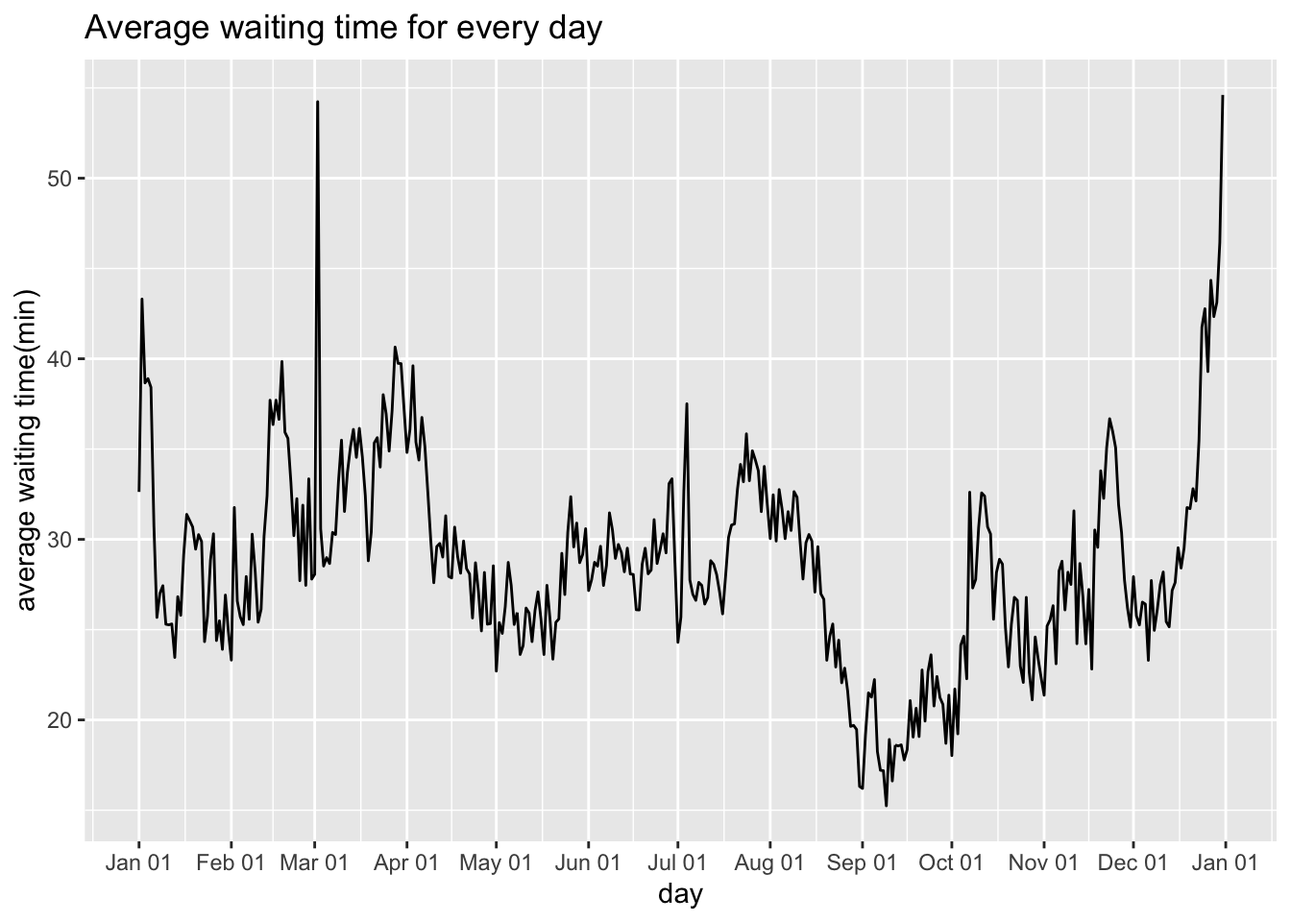
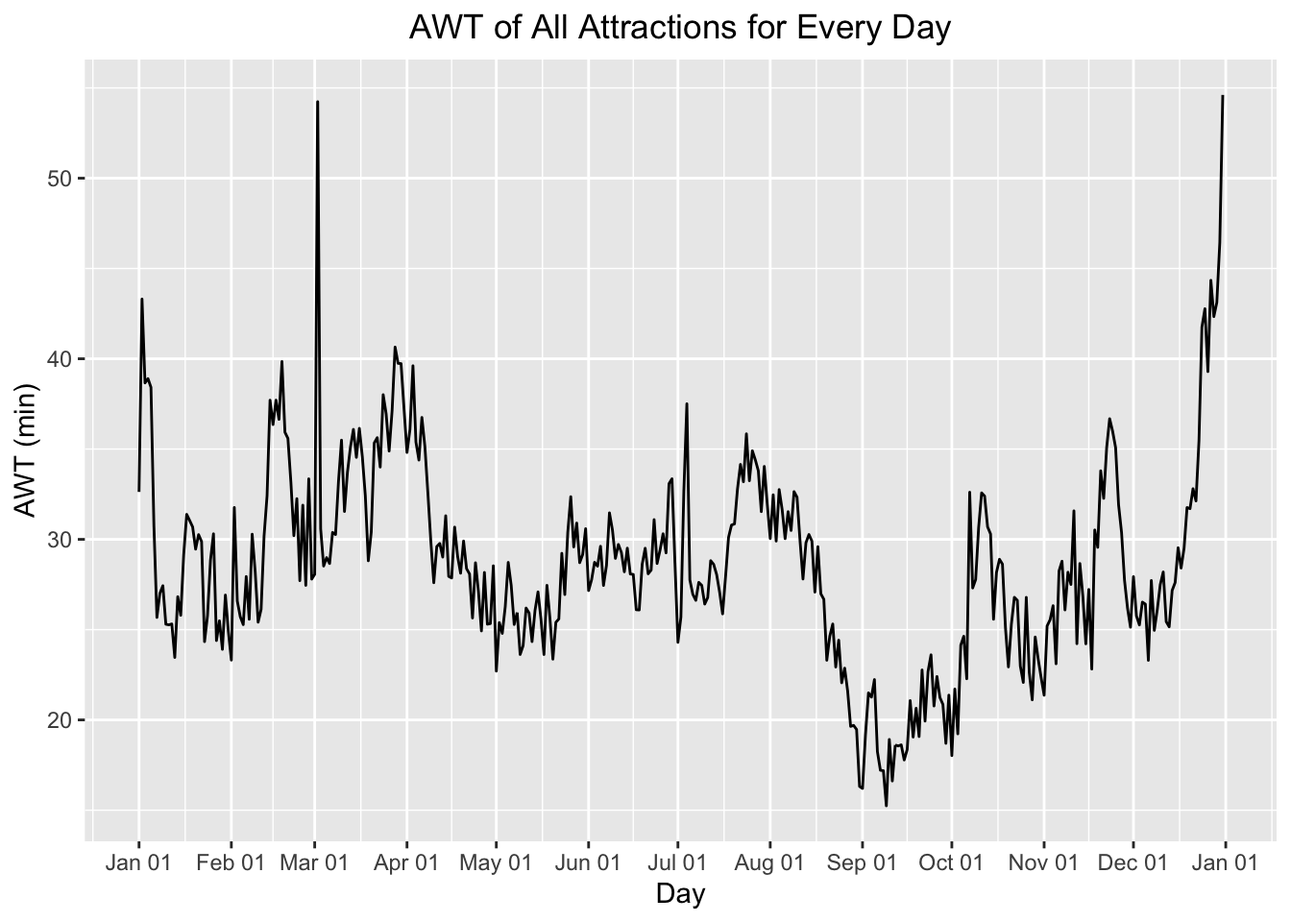
latest bookdown sync

Changed region(s): [[0.0625, 0.0, 0.75, 0.0625], [0.0, 0.3125, 0.0312, 0.6562], [0.5, 0.9375, 0.5625, 1.0]]

diff --git a/docs/results.html b/docs/results.html
@@ -103,7 +103,7 @@
 </ul></li>
 <li class="chapter" data-level="4.3" data-path="results.html"><a href="results.html#general-pattern-analysis---micro-level"><i class="fa fa-check"></i><b>4.3</b> General Pattern Analysis - Micro-Level</a>
 <ul>
-<li class="chapter" data-level="4.3.1" data-path="results.html"><a href="results.html#average-waiting-time-per-facility-per-day"><i class="fa fa-check"></i><b>4.3.1</b> Average Waiting Time per Facility per day</a></li>
+<li class="chapter" data-level="4.3.1" data-path="results.html"><a href="results.html#awt-vs.-days"><i class="fa fa-check"></i><b>4.3.1</b> AWT vs. Days</a></li>
 <li class="chapter" data-level="4.3.2" data-path="results.html"><a href="results.html#average-waiting-time-per-facility-per-weekday"><i class="fa fa-check"></i><b>4.3.2</b> Average Waiting Time per Facility per weekday</a></li>
 </ul></li>
 </ul></li>
@@ -112,7 +112,11 @@
 <li class="chapter" data-level="5.1" data-path="interactive-component.html"><a href="interactive-component.html#awt-vs.-duration"><i class="fa fa-check"></i><b>5.1</b> <em>AWT</em> vs. Duration</a></li>
 <li class="chapter" data-level="5.2" data-path="interactive-component.html"><a href="interactive-component.html#awt_100-vs.-duration"><i class="fa fa-check"></i><b>5.2</b> <em>AWT_100</em> vs. Duration</a></li>
 </ul></li>
-<li class="chapter" data-level="6" data-path="conclusion.html"><a href="conclusion.html"><i class="fa fa-check"></i><b>6</b> Conclusion</a></li>
+<li class="chapter" data-level="6" data-path="conclusion.html"><a href="conclusion.html"><i class="fa fa-check"></i><b>6</b> Conclusion</a>
+<ul>
+<li class="chapter" data-level="6.1" data-path="conclusion.html"><a href="conclusion.html#recommendation"><i class="fa fa-check"></i><b>6.1</b> Recommendation</a></li>
+<li class="chapter" data-level="6.2" data-path="conclusion.html"><a href="conclusion.html#future-directions"><i class="fa fa-check"></i><b>6.2</b> Future Directions</a></li>
+</ul></li>
 <li class="divider"></li>
 <li><a href="https://github.com/rstudio/bookdown" target="blank">Published with bookdown</a></li>
 </ul>
@@ -189,80 +193,6 @@ we identified that <em>average waiting time</em> itself is not a good indicator 
 popularity of the attraction. Note that we observe that the <em>average waiting time</em> is not always higher for
 popular attractions identified in previous section. Thus, we should not solely leverage on that when analyzing the popularity of attractions. However,
 with the power of time series data, it is powerful when analyzing trend and designing visiting plans.</p>
-<pre><code>## [[1]]
-## [1] &quot;7 dwarfs train&quot;
-## 
-## [[2]]
-## [1] &quot;astro orbiter&quot;
-## 
-## [[3]]
-## [1] &quot;barnstormer&quot;
-## 
-## [[4]]
-## [1] &quot;big thunder mtn&quot;
-## 
-## [[5]]
-## [1] &quot;buzz lightyear&quot;
-## 
-## [[6]]
-## [1] &quot;carousel of progress&quot;
-## 
-## [[7]]
-## [1] &quot;country bears&quot;
-## 
-## [[8]]
-## [1] &quot;dumbo&quot;
-## 
-## [[9]]
-## [1] &quot;enchanted tiki rm&quot;
-## 
-## [[10]]
-## [1] &quot;hall of presidents&quot;
-## 
-## [[11]]
-## [1] &quot;haunted mansion&quot;
-## 
-## [[12]]
-## [1] &quot;it s a small world&quot;
-## 
-## [[13]]
-## [1] &quot;jungle cruise&quot;
-## 
-## [[14]]
-## [1] &quot;liberty sq riverboat&quot;
-## 
-## [[15]]
-## [1] &quot;mad tea party&quot;
-## 
-## [[16]]
-## [1] &quot;magic carpets&quot;
-## 
-## [[17]]
-## [1] &quot;peoplemover&quot;
-## 
-## [[18]]
-## [1] &quot;peter pan s flight&quot;
-## 
-## [[19]]
-## [1] &quot;pirates of caribbean&quot;
-## 
-## [[20]]
-## [1] &quot;regal carrousel&quot;
-## 
-## [[21]]
-## [1] &quot;space mountain&quot;
-## 
-## [[22]]
-## [1] &quot;splash mountain&quot;
-## 
-## [[23]]
-## [1] &quot;tom land speedway&quot;
-## 
-## [[24]]
-## [1] &quot;under the sea&quot;
-## 
-## [[25]]
-## [1] &quot;winnie the pooh&quot;</code></pre>
 <p><img src="finalproj_files/figure-html/unnamed-chunk-14-1.png" width="672" /></p>
 </div>
 </div>
@@ -301,7 +231,7 @@ isolate average waiting time for each year and identify the following trends and
 news, activities, and reports published by Disneyland Officials)</p>
 <ul>
 <li><strong><em>Obs #1:</em></strong> We managed to identify cyclical patterns by isolating <em>AWT</em> for each year.</li>
-<li><strong><em>Obs #2:</em></strong> In general, there are two peaks of <em>AWT</em> for attractions in Disneyland: <em>April - July</em> (spring peak) and <em>December - January</em> (winter peak).<br />
+<li><strong><em>Obs #2:</em></strong> In general, there are two peaks of <em>AWT</em> for attractions in Disneyland: <em>April - Late May</em> (spring peak) and <em>December - January</em> (winter peak).<br />
 <strong><em>Exp:</em></strong> Spring <em>AWT</em> peak corresponds to the fact that there are tons of activities held in that period, whereas winter peak is the direct result
 of Christmas Holiday (Note that Florida is a good place to stay for many people during winter).</li>
 <li><strong><em>Obs #3:</em></strong> In <em>2020</em>, we observed a completely different trend due to the temporary closure of the park.</li>
@@ -352,17 +282,44 @@ suggestion is to visit the park in summer or fall.</p>
 </div>
 <div id="general-pattern-analysis---micro-level" class="section level2 hasAnchor" number="4.3">
 <h2><span class="header-section-number">4.3</span> General Pattern Analysis - Micro-Level<a href="results.html#general-pattern-analysis---micro-level" class="anchor-section" aria-label="Anchor link to header"></a></h2>
-<div id="average-waiting-time-per-facility-per-day" class="section level3 hasAnchor" number="4.3.1">
-<h3><span class="header-section-number">4.3.1</span> Average Waiting Time per Facility per day<a href="results.html#average-waiting-time-per-facility-per-day" class="anchor-section" aria-label="Anchor link to header"></a></h3>
+<p>Based on our exploratory analysis in the previous section, <em>AWT</em> of all attractions is a good representation of <em>AWT</em> of
+each attraction. This crucial observation allowed us to conduct micro-level analysis on the cyclical
+pattern that we identified earlier.</p>
+<div id="awt-vs.-days" class="section level3 hasAnchor" number="4.3.1">
+<h3><span class="header-section-number">4.3.1</span> AWT vs. Days<a href="results.html#awt-vs.-days" class="anchor-section" aria-label="Anchor link to header"></a></h3>
+<p>Specifically, we focused on the <em>AWT</em> of all attractions for each day in a year. Although we have already identified that there
+are two peaks (spring and winter) of <em>AWT</em>, we hope that this micro-level analysis can bring more intuitions about the underlying reasons.</p>
 <p><img src="finalproj_files/figure-html/unnamed-chunk-24-1.png" width="672" /></p>
-<p>From the graph above, we can see that the waiting time drops by almost 20 minutes at the beginning of January, which can be explained by the start of the Spring semester. Since students occupy a large proportion of visitors, as they are going back to school, there are fewer visitors to Disneyland, thus requiring tourists to wait much less time.</p>
-<p>The waiting time then steadily increases until April 1, when it decreases by almost 25%. This is probably becauase the Disneyland was closed on April, 2022. The number stays at the same level for about four months before dropping dramatically in August, which can be explained by the start of the Fall semester. From September to January, the waiting time generally increases, except for the first half of October and the second half of November, when it suddenly increases and then goes back to the original level. These two peaks correspond to the Fall break and Thanksgiving break, when many students are freed from school and visit the Magic Kingdom.</p>
-<p>We believe that the waiting time is related to students’ schedules. When students need to go back to school, the waiting time is short. When they have breaks, the waiting time is longer. The sudden drops in January and August are two significant pieces of evidence that support our argument.</p>
-<div id="average-waiting-time-per-facility-per-day-before-and-after-covid-19" class="section level4 hasAnchor" number="4.3.1.1">
-<h4><span class="header-section-number">4.3.1.1</span> Average Waiting Time per Facility per day before and after Covid-19<a href="results.html#average-waiting-time-per-facility-per-day-before-and-after-covid-19" class="anchor-section" aria-label="Anchor link to header"></a></h4>
+<p>From the graph above, we have the following observations:</p>
+<ul>
+<li><strong><em>Obs #1:</em></strong> We clearly identified that there are two periods where the <em>AWT</em> decrease significantly:
+<em>Late August to Early September</em> and <em>Beginning of January</em><br />
+<strong><em>Exp:</em></strong> One possible explanation is that by the start of the Winter semester,
+students, who occupy a large proportion of visitors, are going back to school,
+resulting in fewer visitors to Disneyland.</li>
+<li><strong><em>Obs #2:</em></strong> In this micro-level analysis, we manage to identify <strong>the thrid</strong> peak, which is around <em>Late June to Early August</em>.<br />
+<strong><em>Exp:</em></strong> This corresponds to the fact that most schools (ranging from Universities to Kindergarten) are in vacations.</li>
+<li><strong><em>Obs #3:</em></strong> <strong><em>Obs #2</em></strong> confirmed the effectiveness and necessity of this micro-level analysis.</li>
+</ul>
+<!-- exhibits an increasing pattern until _April_, when it decreases by almost 25%. This is probably becauase the Disneyland was closed on April, 2022. The number stays at the same level for about four months before dropping dramatically in August, which can be explained by the start of the Fall semester. From September to January, the waiting time generally increases, except for the first half of October and the second half of November, when it suddenly increases and then goes back to the original level. These two peaks correspond to the Fall break and Thanksgiving break, when many students are freed from school and visit the Magic Kingdom. -->
+<!-- We believe that the waiting time is related to students' schedules. When students need to go back to school, the waiting time is short. When they have breaks, the waiting time is longer. The sudden drops in January and August are two significant pieces of evidence that support our argument. -->
+<p>Recall in previous section, we discovered that there is an abnormal pattern in <em>2020</em> due to COVID disruption. Therefore, a plot like above may not be
+sufficient to capture this variation. Therefore, we manually filtered the data and compare the patterns of <em>AWT</em> before and after COVID outbreak.</p>
 <p><img src="finalproj_files/figure-html/unnamed-chunk-26-1.png" width="672" /></p>
-<p>We set January 1, 2020 as the threshold which separates the time before and after Covid-19 affected the world. The blue line represents the average waiting time before Covid, and the red line is for the period after Covid. Generally, the waiting time is shorter after Covid, especially during June and July.</p>
-</div>
+<p>Specifically, we manually classify the periods before <em>2020-01-01</em> as <em>Before COVID</em> period and time after <em>2021-01-01</em> as
+the <em>After COVID</em> periods. The reasoning behind this is that the COVID outbreaks occurred at the beginning of <em>2020</em> and it is under control at the end of <em>2020</em> according to the report from <a href="https://www.cdc.gov/">CDC</a>.
+The second reason is inherited from the internal nature of our dataset, where we have tons of missing data between
+<em>2020-04-01</em> and <em>2020-10-01</em> due to Disneyland’s closure; thus, it is reasonable to remove the data from whole year and use this year as a threshold.
+Based on our plots, here are the main observations:</p>
+<ul>
+<li><strong><em>Obs #1:</em></strong> There is a general trend of decreasing <em>AWT</em> for nearly all time periods in a year after COVID outbreak.<br />
+<strong><em>Exp:</em></strong> the concerns of public safety prevented many people from going out and travelling.</li>
+<li><strong><em>Obs #2:</em></strong> There exists outlier of the trend in <strong><em>Obs #1</em></strong>: in Christmas, the <em>AWT</em> is higher than before.<br />
+<strong><em>Exp:</em></strong> Recall our threshold for <em>After COVID</em> period is <em>2021-01-01</em> to <em>2022-01-01</em>, so in December 2022, there is already 1.5 years since
+COVID’s outbreak so people’s life is getting back to normal.</li>
+<li><strong><em>Obs #3:</em></strong> After COVID-19 shutdown, in <em>January</em>, there is a significant drop in <em>AWT</em> compared to patterns before COVID-19.<br />
+<strong><em>Exp:</em></strong> Again, public safety concerns and schools reopening led to less tourists.</li>
+</ul>
 </div>
 <div id="average-waiting-time-per-facility-per-weekday" class="section level3 hasAnchor" number="4.3.2">
 <h3><span class="header-section-number">4.3.2</span> Average Waiting Time per Facility per weekday<a href="results.html#average-waiting-time-per-facility-per-weekday" class="anchor-section" aria-label="Anchor link to header"></a></h3>

diff --git a/docs/data.html b/docs/data.html
@@ -103,7 +103,7 @@
 </ul></li>
 <li class="chapter" data-level="4.3" data-path="results.html"><a href="results.html#general-pattern-analysis---micro-level"><i class="fa fa-check"></i><b>4.3</b> General Pattern Analysis - Micro-Level</a>
 <ul>
-<li class="chapter" data-level="4.3.1" data-path="results.html"><a href="results.html#average-waiting-time-per-facility-per-day"><i class="fa fa-check"></i><b>4.3.1</b> Average Waiting Time per Facility per day</a></li>
+<li class="chapter" data-level="4.3.1" data-path="results.html"><a href="results.html#awt-vs.-days"><i class="fa fa-check"></i><b>4.3.1</b> AWT vs. Days</a></li>
 <li class="chapter" data-level="4.3.2" data-path="results.html"><a href="results.html#average-waiting-time-per-facility-per-weekday"><i class="fa fa-check"></i><b>4.3.2</b> Average Waiting Time per Facility per weekday</a></li>
 </ul></li>
 </ul></li>
@@ -112,7 +112,11 @@
 <li class="chapter" data-level="5.1" data-path="interactive-component.html"><a href="interactive-component.html#awt-vs.-duration"><i class="fa fa-check"></i><b>5.1</b> <em>AWT</em> vs. Duration</a></li>
 <li class="chapter" data-level="5.2" data-path="interactive-component.html"><a href="interactive-component.html#awt_100-vs.-duration"><i class="fa fa-check"></i><b>5.2</b> <em>AWT_100</em> vs. Duration</a></li>
 </ul></li>
-<li class="chapter" data-level="6" data-path="conclusion.html"><a href="conclusion.html"><i class="fa fa-check"></i><b>6</b> Conclusion</a></li>
+<li class="chapter" data-level="6" data-path="conclusion.html"><a href="conclusion.html"><i class="fa fa-check"></i><b>6</b> Conclusion</a>
+<ul>
+<li class="chapter" data-level="6.1" data-path="conclusion.html"><a href="conclusion.html#recommendation"><i class="fa fa-check"></i><b>6.1</b> Recommendation</a></li>
+<li class="chapter" data-level="6.2" data-path="conclusion.html"><a href="conclusion.html#future-directions"><i class="fa fa-check"></i><b>6.2</b> Future Directions</a></li>
+</ul></li>
 <li class="divider"></li>
 <li><a href="https://github.com/rstudio/bookdown" target="blank">Published with bookdown</a></li>
 </ul>
@@ -136,9 +140,27 @@
 <h1><span class="header-section-number">Chapter 3</span> Data<a href="data.html#data" class="anchor-section" aria-label="Anchor link to header"></a></h1>
 <div id="sources" class="section level2 hasAnchor" number="3.1">
 <h2><span class="header-section-number">3.1</span> Sources<a href="data.html#sources" class="anchor-section" aria-label="Anchor link to header"></a></h2>
+<p>As described in the website, the data is collected directly from 3 sources:</p>
+<ol style="list-style-type: decimal">
+<li><p>from app users of <a href="%5Bhttps://touringplans.com/walt-disney-world/crowd-calendar#DataSets%5D">Touringplans.com</a><br />
+The app records the time its users enter waiting lines and enjoy the facility. The difference between these two times is the actual waiting time.</p></li>
+<li><p><a href="https://disneyworld.disney.go.com/plan/my-disney-experience/?ef_id=CjwKCAjw5P2aBhAlEiwAAdY7dIkqzaELf-qklZ0q5Yby8vqX2Yxy38GD99jYgCp2JARCUI_u3nHwWxoCGRMQAvD_BwE:G:s&amp;s_kwcid=AL!5060!3!601187705510!p!!g!!disney%20experience&amp;CMP=KNC-FY23_WDW_TRA_DXF_W365_SCP_MYDX_MDX_Exact%7CG%7C5231013.RR.AM.01.01%7CMWNOQXO%7CBR%7C601187705510&amp;keyword_id=aud-300113739056:kwd-2901498835%7Cdc%7Cdisney%20experience%7C601187705510%7Cp%7C5060:3%7C&amp;gclid=CjwKCAjw5P2aBhAlEiwAAdY7dIkqzaELf-qklZ0q5Yby8vqX2Yxy38GD99jYgCp2JARCUI_u3nHwWxoCGRMQAvD_BwE">Disney’s My Disney Experience app</a><br />
+Disneyland estimates the waiting time based on the length of waiting lines. The estimated waiting time is posted on a sign at the entrance to attractions and shown on Disney’s app.</p></li>
+<li><p>observation from the staffs of <a href="%5Bhttps://touringplans.com/walt-disney-world/crowd-calendar#DataSets%5D">Touringplans.com</a> on sights.<br />
+The staffs visit Disneyland and record their actual waiting time for each attraction.</p></li>
+</ol>
+<p>Issues / problems with the data:<br />
+After plotting the raw data (Section 3.3.2), we discovered that there are no data from April 2020 to October 2020, except August 2020. This is due to the COVID-19 outbreak and the Magic Kingdom Park was closed. However, there is data for August, so we deemed that these data are recorded due to some errors, and we dropped these data from our analysis.<br />
+ <br />
+Other than the above data error, we also discovered that the “entities” data table assigned some attractions with the wrong themed land. To correctly group each attraction to the right land, we went to Disney’s official website to find a map and other related information.</p>
 </div>
 <div id="cleaning-transformation" class="section level2 hasAnchor" number="3.2">
 <h2><span class="header-section-number">3.2</span> Cleaning / transformation<a href="data.html#cleaning-transformation" class="anchor-section" aria-label="Anchor link to header"></a></h2>
+<p>There are 41 attractions’ CSV files available to download, but not all these files contain data. There are only 25 files that contain valid wait time data to explore. These CSV files all contain four columns, which are “date”, “datetime”, “SACTMIN”, and “SPOSTMIN”.<br />
+ <br />
+The “date” column is redundant because its values are all contained in the “datetime” column too, so we dropped this column. “SACTMIN” has a lot of missing values, and we observed that when “SPOSTMIN” has missing data, its corresponding “SACTMIN” has a value and vice versa. Hence, we replaced all the missing values in “SPOSTMIN” with the values from “SACTMIN”. If both the “SACTMIN” and “SPOSTMIN” columns do not have value, then it means that the row does not have valid wait time data for our analysis, so we drop the row. After combining the “SACTMIN” and “SPOSTMIN” columns, we renamed the new column as “Waiting.Time” and dropped the “SACTMIN” column. In addition, we also add column “X” as an ID column.<br />
+ <br />
+Moreover, in our analysis of wait time based on the time of the day, we also converted the “datetime” column from character type to datetime using as.POSIXlt(). This will allow us to compare time easily. We assigned time before 12 PM to be the morning category, time between 12 PM and before 6 PM to be the afternoon category, and time after 6 PM to be the evening category.</p>
 </div>
 <div id="missing-value-analysis" class="section level2 hasAnchor" number="3.3">
 <h2><span class="header-section-number">3.3</span> Missing value analysis<a href="data.html#missing-value-analysis" class="anchor-section" aria-label="Anchor link to header"></a></h2>
@@ -149,6 +171,7 @@
 <div id="missing-time-series-data" class="section level3 hasAnchor" number="3.3.2">
 <h3><span class="header-section-number">3.3.2</span> Missing Time Series Data<a href="data.html#missing-time-series-data" class="anchor-section" aria-label="Anchor link to header"></a></h3>
 <p><img src="finalproj_files/figure-html/unnamed-chunk-9-1.png" width="672" /></p>
+<p>From the above chart, we can see that there are missing data values for all the three variables. These three variables are some general information about each ride, and we observe that if one variable has missing data, then the other two variables tend to be missing too, only one exception for attraction “enchanted tiki rm”. We dropped the missing data for our analysis. Since they do not have a strong relationship with analyzing the wait time trend.</p>
 
 </div>
 </div>

diff --git a/docs/proposal.html b/docs/proposal.html
@@ -103,7 +103,7 @@
 </ul></li>
 <li class="chapter" data-level="4.3" data-path="results.html"><a href="results.html#general-pattern-analysis---micro-level"><i class="fa fa-check"></i><b>4.3</b> General Pattern Analysis - Micro-Level</a>
 <ul>
-<li class="chapter" data-level="4.3.1" data-path="results.html"><a href="results.html#average-waiting-time-per-facility-per-day"><i class="fa fa-check"></i><b>4.3.1</b> Average Waiting Time per Facility per day</a></li>
+<li class="chapter" data-level="4.3.1" data-path="results.html"><a href="results.html#awt-vs.-days"><i class="fa fa-check"></i><b>4.3.1</b> AWT vs. Days</a></li>
 <li class="chapter" data-level="4.3.2" data-path="results.html"><a href="results.html#average-waiting-time-per-facility-per-weekday"><i class="fa fa-check"></i><b>4.3.2</b> Average Waiting Time per Facility per weekday</a></li>
 </ul></li>
 </ul></li>
@@ -112,7 +112,11 @@
 <li class="chapter" data-level="5.1" data-path="interactive-component.html"><a href="interactive-component.html#awt-vs.-duration"><i class="fa fa-check"></i><b>5.1</b> <em>AWT</em> vs. Duration</a></li>
 <li class="chapter" data-level="5.2" data-path="interactive-component.html"><a href="interactive-component.html#awt_100-vs.-duration"><i class="fa fa-check"></i><b>5.2</b> <em>AWT_100</em> vs. Duration</a></li>
 </ul></li>
-<li class="chapter" data-level="6" data-path="conclusion.html"><a href="conclusion.html"><i class="fa fa-check"></i><b>6</b> Conclusion</a></li>
+<li class="chapter" data-level="6" data-path="conclusion.html"><a href="conclusion.html"><i class="fa fa-check"></i><b>6</b> Conclusion</a>
+<ul>
+<li class="chapter" data-level="6.1" data-path="conclusion.html"><a href="conclusion.html#recommendation"><i class="fa fa-check"></i><b>6.1</b> Recommendation</a></li>
+<li class="chapter" data-level="6.2" data-path="conclusion.html"><a href="conclusion.html#future-directions"><i class="fa fa-check"></i><b>6.2</b> Future Directions</a></li>
+</ul></li>
 <li class="divider"></li>
 <li><a href="https://github.com/rstudio/bookdown" target="blank">Published with bookdown</a></li>
 </ul>
@@ -142,13 +146,7 @@
 <div id="data-availability" class="section level2 hasAnchor" number="2.2">
 <h2><span class="header-section-number">2.2</span> Data availability<a href="proposal.html#data-availability" class="anchor-section" aria-label="Anchor link to header"></a></h2>
 <p>The data comes from <a href="%5Bhttps://touringplans.com/walt-disney-world/crowd-calendar#DataSets%5D">Touringplans.com</a>. The data includes the most recent daily or hourly average waiting time for some selected attractions in the Magic Kingdom of Disney and the metadata that are useful for conducting analysis.</p>
-<p>As described in the website, the data is collected directly from 3 sources:</p>
-<ol style="list-style-type: decimal">
-<li>from app users of <a href="%5Bhttps://touringplans.com/walt-disney-world/crowd-calendar#DataSets%5D">Touringplans.com</a></li>
-<li><a href="https://disneyworld.disney.go.com/plan/my-disney-experience/?ef_id=CjwKCAjw5P2aBhAlEiwAAdY7dIkqzaELf-qklZ0q5Yby8vqX2Yxy38GD99jYgCp2JARCUI_u3nHwWxoCGRMQAvD_BwE:G:s&amp;s_kwcid=AL!5060!3!601187705510!p!!g!!disney%20experience&amp;CMP=KNC-FY23_WDW_TRA_DXF_W365_SCP_MYDX_MDX_Exact%7CG%7C5231013.RR.AM.01.01%7CMWNOQXO%7CBR%7C601187705510&amp;keyword_id=aud-300113739056:kwd-2901498835%7Cdc%7Cdisney%20experience%7C601187705510%7Cp%7C5060:3%7C&amp;gclid=CjwKCAjw5P2aBhAlEiwAAdY7dIkqzaELf-qklZ0q5Yby8vqX2Yxy38GD99jYgCp2JARCUI_u3nHwWxoCGRMQAvD_BwE">Disney’s My Disney Experience app</a></li>
-<li>observation from the staffs of <a href="%5Bhttps://touringplans.com/walt-disney-world/crowd-calendar#DataSets%5D">Touringplans.com</a> on sights.</li>
-</ol>
-<p>As for its availability, the data can be downloaded directly from the website for free in CSV format. A CSV document downloaded contains all wait time data for a specific attraction. The wait time is recorded at different time intervals (every 1 ~ 10 minutes) for each day. For example, the raw data for attraction <a href="https://disneyworld.disney.go.com/attractions/magic-kingdom/dumbo-the-flying-elephant/">Dumbo</a> and <a href="https://disneyworld.disney.go.com/attractions/magic-kingdom/monsters-inc-laugh-floor/">Laugh Floor</a> are displayed below.</p>
+<p>The data can be downloaded directly from the website for free in CSV format. A CSV document downloaded contains all wait time data for a specific attraction. The wait time is recorded at different time intervals (every 1 ~ 10 minutes) for each day. For example, the raw data for attraction <a href="https://disneyworld.disney.go.com/attractions/magic-kingdom/dumbo-the-flying-elephant/">Dumbo</a> and <a href="https://disneyworld.disney.go.com/attractions/magic-kingdom/monsters-inc-laugh-floor/">Laugh Floor</a> are displayed below.</p>
 <!-- <center> -->
 <!-- <img src="Imgs/dumbo_eg.png" alt="Example Wait Time Data", width = "50%" -->
 <!-- ![Dumbo](Imgs/dumbo_eg.jpeg){width=40%} ![Laugh Floor](Imgs/lf_eg.jpeg){width=40%} -->
@@ -161,7 +159,7 @@
 <img style="height: auto; width: 45%;" src="Imgs/lf_eg.jpeg" alt="lf"/>
 <figcaption style="text-align: center;">Fig. 1: Example Data for Dumbo (left) and Laugh Floor (right)</figcaption></div>
 <!-- </div> -->
-<p>By our investigation, the data is available for each park opening day from 01/01/2015 to 12/28/2021, and the website provides data for 41 attractions in the Magic Kingdom. Furthermore, we also identified that there are many useful metadata from <a href="%5Bhttps://touringplans.com/walt-disney-world/crowd-calendar#DataSets%5D">Touringplans.com</a>. For instance, we have the access to the metadata for each attraction of the Magic Kingdom, which records useful information including its unique code, duration, and where it locates. Note that information like durations are extremely helpful when analyzing the waiting time of attractions. The example dataset is displayed below.</p>
+<p>By our investigation, the data is available for each park opening day from 01/01/2015 to 12/28/2021. Yet, from 04/01/2020 to 10/01/2020, Disneyland was closed, so we don’t have any data during this period. The website provides data for 41 attractions in the Magic Kingdom. Furthermore, we also identified that there are many useful metadata from <a href="%5Bhttps://touringplans.com/walt-disney-world/crowd-calendar#DataSets%5D">Touringplans.com</a>. For instance, we have the access to the metadata for each attraction of the Magic Kingdom, which records useful information including its unique code, duration, and where it locates. Note that information like durations are extremely helpful when analyzing the waiting time of attractions. The example dataset is displayed below.</p>
 <div class='container', style="text-align: center;">
 <img style="height: auto; width: 80%;" src="Imgs/metadata.jpeg" alt="metadata"/>
 <figcaption style="text-align: center;">Fig. 2: Example Metadata</figcaption>

diff --git a/docs/conclusion.html b/docs/conclusion.html
@@ -103,7 +103,7 @@
 </ul></li>
 <li class="chapter" data-level="4.3" data-path="results.html"><a href="results.html#general-pattern-analysis---micro-level"><i class="fa fa-check"></i><b>4.3</b> General Pattern Analysis - Micro-Level</a>
 <ul>
-<li class="chapter" data-level="4.3.1" data-path="results.html"><a href="results.html#average-waiting-time-per-facility-per-day"><i class="fa fa-check"></i><b>4.3.1</b> Average Waiting Time per Facility per day</a></li>
+<li class="chapter" data-level="4.3.1" data-path="results.html"><a href="results.html#awt-vs.-days"><i class="fa fa-check"></i><b>4.3.1</b> AWT vs. Days</a></li>
 <li class="chapter" data-level="4.3.2" data-path="results.html"><a href="results.html#average-waiting-time-per-facility-per-weekday"><i class="fa fa-check"></i><b>4.3.2</b> Average Waiting Time per Facility per weekday</a></li>
 </ul></li>
 </ul></li>
@@ -112,7 +112,11 @@
 <li class="chapter" data-level="5.1" data-path="interactive-component.html"><a href="interactive-component.html#awt-vs.-duration"><i class="fa fa-check"></i><b>5.1</b> <em>AWT</em> vs. Duration</a></li>
 <li class="chapter" data-level="5.2" data-path="interactive-component.html"><a href="interactive-component.html#awt_100-vs.-duration"><i class="fa fa-check"></i><b>5.2</b> <em>AWT_100</em> vs. Duration</a></li>
 </ul></li>
-<li class="chapter" data-level="6" data-path="conclusion.html"><a href="conclusion.html"><i class="fa fa-check"></i><b>6</b> Conclusion</a></li>
+<li class="chapter" data-level="6" data-path="conclusion.html"><a href="conclusion.html"><i class="fa fa-check"></i><b>6</b> Conclusion</a>
+<ul>
+<li class="chapter" data-level="6.1" data-path="conclusion.html"><a href="conclusion.html#recommendation"><i class="fa fa-check"></i><b>6.1</b> Recommendation</a></li>
+<li class="chapter" data-level="6.2" data-path="conclusion.html"><a href="conclusion.html#future-directions"><i class="fa fa-check"></i><b>6.2</b> Future Directions</a></li>
+</ul></li>
 <li class="divider"></li>
 <li><a href="https://github.com/rstudio/bookdown" target="blank">Published with bookdown</a></li>
 </ul>
@@ -134,10 +138,22 @@
             <section class="normal" id="section-">
 <div id="conclusion" class="section level1 hasAnchor" number="6">
 <h1><span class="header-section-number">Chapter 6</span> Conclusion<a href="conclusion.html#conclusion" class="anchor-section" aria-label="Anchor link to header"></a></h1>
-<p>The waiting time in Disneyland has seasonal pattern. Tourists need to wait longer time during Spring and Winter than Summer and Fall. We believe it is related to students’ schedule. The average waiting time (AWT) significantly drops after the spring semester and the fall semester begin. There are also two small sudden peak around the Fall break and the Thanksgiving break. Besides the seasonal patter, we also notice that people need to wait more on Saturday and Monday. While Sunday and Thursday cost less time on waiting. What’s more, due to Covid-19, the AWT in recent two years is less than before 2020.
-## Recommendation
-We recommend tourists visit Disneyland on a Sunday during Fall.The weather is comfortable and they don’t have to wait for a long time.</p>
+<p>The waiting time in Disneyland has seasonal pattern. Tourists need to wait longer time during Spring and Winter than Summer and Fall. We believe it is related to students’ schedule. The average waiting time (AWT) significantly drops after the spring semester and the fall semester begin. There are also two small sudden peak around the Fall break and the Thanksgiving break. Besides the seasonal patter, we also notice that people need to wait more on Saturday and Monday. While Sunday and Thursday cost less time on waiting. What’s more, due to Covid-19, the AWT in recent two years is less than before 2020.  </p>
+<div id="recommendation" class="section level2 hasAnchor" number="6.1">
+<h2><span class="header-section-number">6.1</span> Recommendation<a href="conclusion.html#recommendation" class="anchor-section" aria-label="Anchor link to header"></a></h2>
+<p>We recommend tourists visit Disneyland on a Sunday during Fall.The weather is comfortable and they don’t have to wait for a long time. 
+ 
+Based on the average wait time analysis, we can conclude that if a visitor wants to take the most popular attraction, the Seven Dwarf Mine Train, then the best time to visit is after 6 PM because the average wait time is the shortest in the evening. For the second most popular attraction, the Buzz Lightyear, the best time to visit is again in the evening. The best time to visit the third most popular attraction, the Astro Orbiter, is in the morning before 12 PM. 
+ 
+Other than the popular attractions, if a visitor wants to visit the Space Mountain, then the best time to go is in the morning. The best time to visit Peter Pan’s flight and the Jungle Cruise is in the evening. Splash Mountain and the Big Thunder Mountain have shorter average wait time in both the morning and evening.  </p>
+</div>
+<div id="future-directions" class="section level2 hasAnchor" number="6.2">
+<h2><span class="header-section-number">6.2</span> Future Directions<a href="conclusion.html#future-directions" class="anchor-section" aria-label="Anchor link to header"></a></h2>
+<p>From our exploratory analysis, we observed that there are some common trends and cyclical patterns in the historical wait time. Our project serves as a solid and directed base for possible supervised machine learning studies. Models can be designed to predict the wait time at Magic Kingdom.  
+ 
+Other than only using the wait time data, other categories of data can also be incorporated to discover more patterns. For example, weather data, flight ticket price data, and hotel price data can be used to find correlations with wait time.</p>
 
+</div>
 </div>
             </section>
 

diff --git a/docs/index.html b/docs/index.html
@@ -103,7 +103,7 @@
 </ul></li>
 <li class="chapter" data-level="4.3" data-path="results.html"><a href="results.html#general-pattern-analysis---micro-level"><i class="fa fa-check"></i><b>4.3</b> General Pattern Analysis - Micro-Level</a>
 <ul>
-<li class="chapter" data-level="4.3.1" data-path="results.html"><a href="results.html#average-waiting-time-per-facility-per-day"><i class="fa fa-check"></i><b>4.3.1</b> Average Waiting Time per Facility per day</a></li>
+<li class="chapter" data-level="4.3.1" data-path="results.html"><a href="results.html#awt-vs.-days"><i class="fa fa-check"></i><b>4.3.1</b> AWT vs. Days</a></li>
 <li class="chapter" data-level="4.3.2" data-path="results.html"><a href="results.html#average-waiting-time-per-facility-per-weekday"><i class="fa fa-check"></i><b>4.3.2</b> Average Waiting Time per Facility per weekday</a></li>
 </ul></li>
 </ul></li>
@@ -112,7 +112,11 @@
 <li class="chapter" data-level="5.1" data-path="interactive-component.html"><a href="interactive-component.html#awt-vs.-duration"><i class="fa fa-check"></i><b>5.1</b> <em>AWT</em> vs. Duration</a></li>
 <li class="chapter" data-level="5.2" data-path="interactive-component.html"><a href="interactive-component.html#awt_100-vs.-duration"><i class="fa fa-check"></i><b>5.2</b> <em>AWT_100</em> vs. Duration</a></li>
 </ul></li>
-<li class="chapter" data-level="6" data-path="conclusion.html"><a href="conclusion.html"><i class="fa fa-check"></i><b>6</b> Conclusion</a></li>
+<li class="chapter" data-level="6" data-path="conclusion.html"><a href="conclusion.html"><i class="fa fa-check"></i><b>6</b> Conclusion</a>
+<ul>
+<li class="chapter" data-level="6.1" data-path="conclusion.html"><a href="conclusion.html#recommendation"><i class="fa fa-check"></i><b>6.1</b> Recommendation</a></li>
+<li class="chapter" data-level="6.2" data-path="conclusion.html"><a href="conclusion.html#future-directions"><i class="fa fa-check"></i><b>6.2</b> Future Directions</a></li>
+</ul></li>
 <li class="divider"></li>
 <li><a href="https://github.com/rstudio/bookdown" target="blank">Published with bookdown</a></li>
 </ul>
@@ -139,7 +143,7 @@
 </div>
 <div id="introduction" class="section level1 hasAnchor" number="1">
 <h1><span class="header-section-number">Chapter 1</span> Introduction<a href="index.html#introduction" class="anchor-section" aria-label="Anchor link to header"></a></h1>
-<p>Disneyland is one of the most popular parks in the world. However, visitors often spend a long time waiting for facilities. They may wait for hours for a five-minute roller coaster. Thus, we want to find a way to spend less time waiting and enjoy as many facilities as possible. In this project, we will examine the data of Disneyland waiting times, find the pattern, and provide an optimal visit plan.</p>
+<p>Disneyland is one of the most popular themed parks in the world. However, visitors often long wait in lines for each attraction. They may spend hours waiting and enjoy the attraction for less than five minutes. There is no need to mention possible bad weather; waiting in line when it rains or the temperature is below 32 or above 100 Fahrenheit is uncomfortable. The visitors could only enjoy a few attractions in a day while wasting most of their precious time waiting. We all have experienced long waiting for attractions in Disneyland, so we would like to find a way to minimize the waiting time as much as possible. What’s more, Covid-19 has dramatically impacted the world, including Disneyland. Many people choose to stay at home instead of having fun outside. Also, Disneyland was closed on March 16, 2020. We will show how the covid influence the waiting time. In this project, We will explore Disney Magic Kingdom Park’s historical wait time and discover some patterns. Our findings suggest the waiting time does vary before and after covid began. It is not distributed uniformly yearly, monthly, and daily. There are some times tourists spend less time waiting. Furthermore, we conclude some strategies which help us spend time wisely and enjoy as many attractions as possible.</p>
 
 </div>
             </section>

diff --git a/docs/404.html b/docs/404.html
@@ -103,7 +103,7 @@
 </ul></li>
 <li class="chapter" data-level="4.3" data-path="results.html"><a href="results.html#general-pattern-analysis---micro-level"><i class="fa fa-check"></i><b>4.3</b> General Pattern Analysis - Micro-Level</a>
 <ul>
-<li class="chapter" data-level="4.3.1" data-path="results.html"><a href="results.html#average-waiting-time-per-facility-per-day"><i class="fa fa-check"></i><b>4.3.1</b> Average Waiting Time per Facility per day</a></li>
+<li class="chapter" data-level="4.3.1" data-path="results.html"><a href="results.html#awt-vs.-days"><i class="fa fa-check"></i><b>4.3.1</b> AWT vs. Days</a></li>
 <li class="chapter" data-level="4.3.2" data-path="results.html"><a href="results.html#average-waiting-time-per-facility-per-weekday"><i class="fa fa-check"></i><b>4.3.2</b> Average Waiting Time per Facility per weekday</a></li>
 </ul></li>
 </ul></li>
@@ -112,7 +112,11 @@
 <li class="chapter" data-level="5.1" data-path="interactive-component.html"><a href="interactive-component.html#awt-vs.-duration"><i class="fa fa-check"></i><b>5.1</b> <em>AWT</em> vs. Duration</a></li>
 <li class="chapter" data-level="5.2" data-path="interactive-component.html"><a href="interactive-component.html#awt_100-vs.-duration"><i class="fa fa-check"></i><b>5.2</b> <em>AWT_100</em> vs. Duration</a></li>
 </ul></li>
-<li class="chapter" data-level="6" data-path="conclusion.html"><a href="conclusion.html"><i class="fa fa-check"></i><b>6</b> Conclusion</a></li>
+<li class="chapter" data-level="6" data-path="conclusion.html"><a href="conclusion.html"><i class="fa fa-check"></i><b>6</b> Conclusion</a>
+<ul>
+<li class="chapter" data-level="6.1" data-path="conclusion.html"><a href="conclusion.html#recommendation"><i class="fa fa-check"></i><b>6.1</b> Recommendation</a></li>
+<li class="chapter" data-level="6.2" data-path="conclusion.html"><a href="conclusion.html#future-directions"><i class="fa fa-check"></i><b>6.2</b> Future Directions</a></li>
+</ul></li>
 <li class="divider"></li>
 <li><a href="https://github.com/rstudio/bookdown" target="blank">Published with bookdown</a></li>
 </ul>

diff --git a/docs/interactive-component.html b/docs/interactive-component.html
@@ -103,7 +103,7 @@
 </ul></li>
 <li class="chapter" data-level="4.3" data-path="results.html"><a href="results.html#general-pattern-analysis---micro-level"><i class="fa fa-check"></i><b>4.3</b> General Pattern Analysis - Micro-Level</a>
 <ul>
-<li class="chapter" data-level="4.3.1" data-path="results.html"><a href="results.html#average-waiting-time-per-facility-per-day"><i class="fa fa-check"></i><b>4.3.1</b> Average Waiting Time per Facility per day</a></li>
+<li class="chapter" data-level="4.3.1" data-path="results.html"><a href="results.html#awt-vs.-days"><i class="fa fa-check"></i><b>4.3.1</b> AWT vs. Days</a></li>
 <li class="chapter" data-level="4.3.2" data-path="results.html"><a href="results.html#average-waiting-time-per-facility-per-weekday"><i class="fa fa-check"></i><b>4.3.2</b> Average Waiting Time per Facility per weekday</a></li>
 </ul></li>
 </ul></li>
@@ -112,7 +112,11 @@
 <li class="chapter" data-level="5.1" data-path="interactive-component.html"><a href="interactive-component.html#awt-vs.-duration"><i class="fa fa-check"></i><b>5.1</b> <em>AWT</em> vs. Duration</a></li>
 <li class="chapter" data-level="5.2" data-path="interactive-component.html"><a href="interactive-component.html#awt_100-vs.-duration"><i class="fa fa-check"></i><b>5.2</b> <em>AWT_100</em> vs. Duration</a></li>
 </ul></li>
-<li class="chapter" data-level="6" data-path="conclusion.html"><a href="conclusion.html"><i class="fa fa-check"></i><b>6</b> Conclusion</a></li>
+<li class="chapter" data-level="6" data-path="conclusion.html"><a href="conclusion.html"><i class="fa fa-check"></i><b>6</b> Conclusion</a>
+<ul>
+<li class="chapter" data-level="6.1" data-path="conclusion.html"><a href="conclusion.html#recommendation"><i class="fa fa-check"></i><b>6.1</b> Recommendation</a></li>
+<li class="chapter" data-level="6.2" data-path="conclusion.html"><a href="conclusion.html#future-directions"><i class="fa fa-check"></i><b>6.2</b> Future Directions</a></li>
+</ul></li>
 <li class="divider"></li>
 <li><a href="https://github.com/rstudio/bookdown" target="blank">Published with bookdown</a></li>
 </ul>
